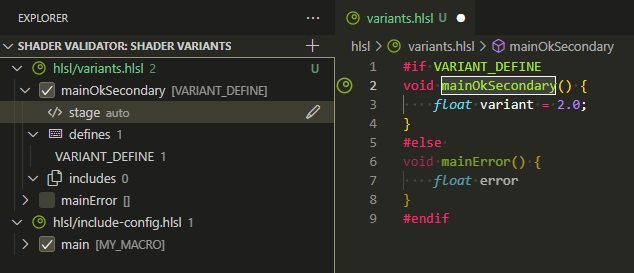
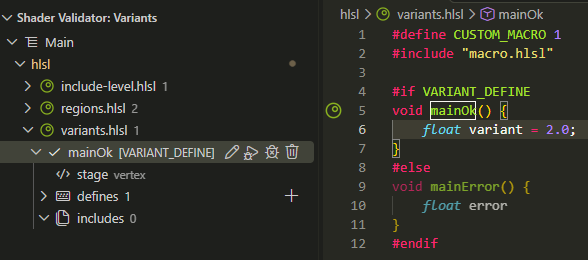
Update README with latest changes

diff --git a/README.md b/README.md
@@ -7,8 +7,7 @@
 [![vsmarketplace](https://img.shields.io/visual-studio-marketplace/v/antaalt.shader-validator?color=blue&label=vscode%20marketplace)](https://marketplace.visualstudio.com/items?itemName=antaalt.shader-validator)
 [![openVSX registry](https://img.shields.io/open-vsx/v/antaalt/shader-validator?color=purple)](https://open-vsx.org/extension/antaalt/shader-validator)
 
-[shader-validator](https://marketplace.visualstudio.com/items?itemName=antaalt.shader-validator) adds syntax highlighting, validation & symbol providing for **HLSL** / **GLSL** / **WGSL** shaders. It is mostly intended to be used with big shader codebase used in production by providing interesting features such as [region selection](#regions) and a [shader variant](#variants) entry point selection for quickly switching between two entry point context with decent performances. This make it also quite reliable for small shader codebase.
-
+[shader-validator](https://marketplace.visualstudio.com/items?itemName=antaalt.shader-validator) adds syntax highlighting, validation & symbol providing for **HLSL** / **GLSL** / **WGSL** shaders. It is mostly intended to be used with big shader codebase used in production by providing interesting features such as [region selection](#regions) and a [shader variant](#variants) entry point selection for quickly switching between two entry point context with decent performances. This make it also quite reliable for small shader codebase. It works out of the box, with nothing to install and also run on [vscode.dev](https://vscode.dev) with a few limitations (see below).
 
 ## Features
 
@@ -133,6 +132,8 @@ Inspect the tree of files included by the currently opened shader from the dedic
 Use the pin button in the view title to inspect the active [variant](#variants) file instead of the opened one. This keeps the view on the entry point that is actually compiled while you browse through its includes, rather than switching to each file you open.
 
 The tree follows the active editor and refreshes as you type. Clicking an entry opens the file. A file that is already part of its own include chain is marked as `already included` and not expanded again.
+
+![dependencies](res/doc/dependencies.png)
 
 ### Regions
 
